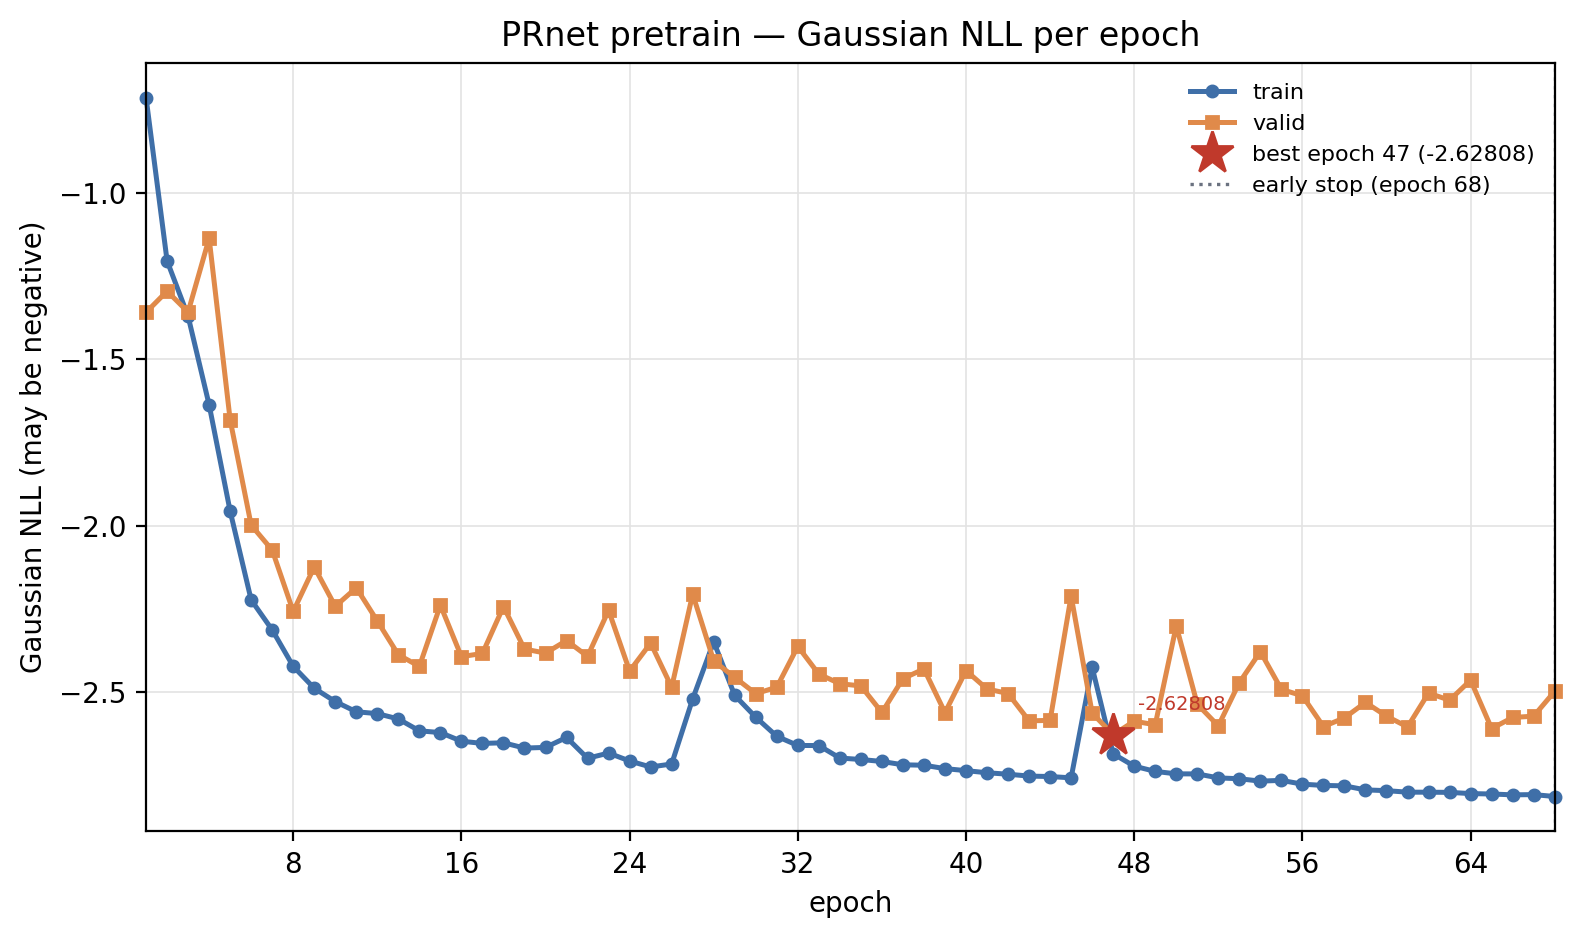
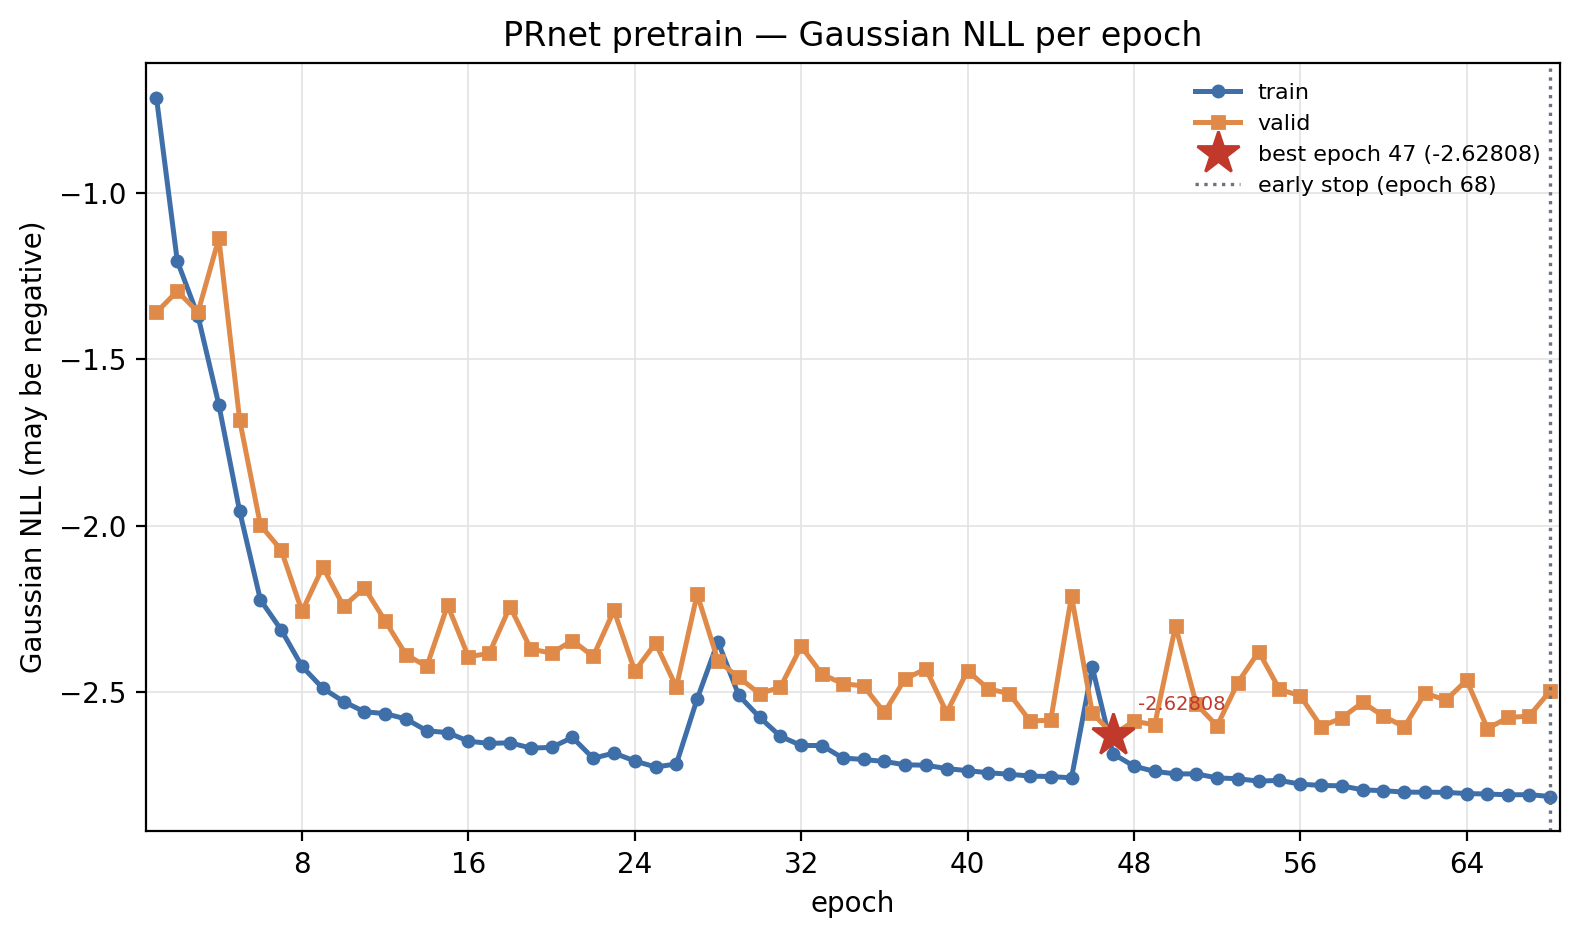
fix(stage2/05): honest wall time, control-space deviation, visible early-stop marker
Review follow-ups on the run record.

Wall time. The run's own start/finish stamps span 956 s (15.9 min), while the
in-process monotonic timer read 883.2 s for the same span: the host's monotonic
clock runs ~8% low (the per-epoch timers show the same bias against the log's
stamps). The record now reports the stamp span as the wall time and keeps the
monotonic value as a separate field; a rerun computes both. The tracked
fit_history.json and model_card.md are patched to the same semantics — same run,
same numbers, no retrain.

Control space. The model card claimed parity with the author's dataset ("control
and target rows share a space"); they do not — the control input is the
raw-count group mean while the target is log1p_cp10k. Recorded as a deviation in
the card, the README and ADR 0031, and flagged as needing resolution before any
finetune or transfer claim.

Early-stop marker. `set_xlim(1, max(epochs))` put the stop-epoch vline exactly on
the right spine whenever early stop fired at the last epoch, so the marker was
invisible. The axis is padded half an epoch, and a new `--replot` mode redraws
summary.png + summary_table.csv from the recorded fit_history.json using the
run's own plotting code (data unchanged; only the rendering is repeated).

README/AGENTS carry the corrected wall time, the `--replot` mode and the
control-space note; AGENTS is back within the 30-line routing limit.

diff --git a/stage2/05_prnet_pretrain/execution/train_prnet.py b/stage2/05_prnet_pretrain/execution/train_prnet.py
@@ -922,13 +922,11 @@ def write_summary_png(
     axis.set_title(title)
     axis.grid(True, color="#e3e3e3", lw=0.6)
     axis.legend(frameon=False, fontsize=8)
-    # Epoch is a discrete count: integer ticks only, and the axis spans exactly
-    # [1, epochs_run] so the curve fills the panel instead of floating inside it.
-    # A single-epoch history cannot use [1, 1] as a limit, so pad that one case.
-    if max(epochs) > 1:
-        axis.set_xlim(1, max(epochs))
-    else:
-        axis.set_xlim(0.5, 1.5)
+    # Epoch is a discrete count: integer ticks only. The axis is padded half an
+    # epoch past the last point so the early-stop line — which sits exactly on the
+    # final epoch whenever it fires — stays visible inside the panel instead of
+    # collapsing onto the right spine. A single-epoch history pads the same way.
+    axis.set_xlim(0.5, max(epochs) + 0.5)
     axis.xaxis.set_major_locator(MaxNLocator(integer=True))
     fig.tight_layout()
     fig.savefig(path, dpi=200, bbox_inches="tight", facecolor="white")
@@ -960,8 +958,11 @@ def write_model_card(
         f"- **Mode:** {'SMOKE (synthetic fixture, 2 epochs)' if args.smoke else 'full pretrain run'}",
         f"- **Started:** {config['started']}",
         f"- **Finished:** {timing['finished']}",
-        f"- **Wall time:** {timing['wall_time_s']:.1f} s end to end "
-        f"({timing['train_loop_s']:.1f} s inside the {result['epochs_run']} training epochs)",
+        f"- **Wall time:** {timing['wall_time_s']:.1f} s ({timing['wall_time_s'] / 60:.1f} min) "
+        f"between the start and finish stamps. The in-process monotonic timer reads "
+        f"{timing['wall_monotonic_s']:.1f} s for the same span — it runs low against the "
+        f"wall clock on this host — and {timing['train_loop_s']:.1f} s (monotonic) is inside "
+        f"the {result['epochs_run']} training epochs.",
         f"- **Peak memory:** {timing['peak_rss_mb']:.0f} MiB host RSS "
         f"(the view is read as CSR, never densified)",
         f"- **Command:** `{' '.join(config['command'])}`",
@@ -1052,8 +1053,11 @@ def write_model_card(
         "",
         "- Pipeline bring-up only: no CM finetune, no cold-drug evaluation, no comparison",
         "  against `03_models_cmbench`. A negative Gaussian NLL is expected and correct.",
-        "- The control input is the group mean of raw counts, **not** log1p_cp10k; this",
-        "  mirrors the author's dataset (control row and target row share the same space).",
+        "- **The control input and the target are not in the same space**: the control is",
+        "  the group mean of raw counts while the target is `log1p_cp10k`. The author's",
+        "  dataset draws both from one matrix, so this is a recorded deviation, not parity.",
+        "  It does not affect the pipeline claim, but it must be resolved before any",
+        "  finetune or transfer claim.",
         "",
     ]
     path.write_text("\n".join(lines), encoding="utf-8")
@@ -1082,6 +1086,9 @@ def parse_args(argv: list[str] | None = None) -> argparse.Namespace:
                              f"{SMOKE_TRAIN_ROWS}/{SMOKE_VALID_ROWS} sampled rows")
     parser.add_argument("--check", action="store_true",
                         help="print the resolved paths, view shape and split counts, then exit")
+    parser.add_argument("--replot", action="store_true",
+                        help="redraw summary.png/summary_table.csv from the recorded "
+                             "fit_history.json (no training, no model read)")
     return parser.parse_args(argv)
 
 
@@ -1112,9 +1119,31 @@ def main(argv: list[str] | None = None) -> int:
         )
 
     output.mkdir(parents=True, exist_ok=True)
-    setup_logging(None if args.check else output / "run.log")
+    setup_logging(None if (args.check or args.replot) else output / "run.log")
+    if args.replot:
+        # Redraw the figure from the recorded history; the data is the run's, only
+        # the rendering is repeated (used after a plotting fix, never to alter data).
+        history_path = output / "fit_history.json"
+        if not history_path.exists():
+            raise SystemExit(f"no recorded history to replot: {history_path}")
+        payload = json.loads(history_path.read_text(encoding="utf-8"))
+        run, history = payload["run"], payload["history"]
+        write_summary_table(output / "summary_table.csv", history)
+        write_summary_png(
+            output / "summary.png",
+            history,
+            int(run["best_epoch"]),
+            float(run["best_valid_loss"]),
+            bool(run["stopped_early"]),
+            int(run["stop_epoch"]),
+            bool(run["smoke"]),
+        )
+        log.info("redrew summary.png + summary_table.csv from %s (%d epochs)",
+                 history_path, len(history))
+        return 0
     started = time.strftime("%Y-%m-%dT%H:%M:%S%z")
     run_t0 = time.perf_counter()
+    run_t0_wall = time.time()
     command = [sys.executable, *sys.argv] if argv is None else ["train_prnet.py", *argv]
     log.info("PRnet pretrain bring-up — spec §2 (stage2/05_prnet_pretrain)")
     log.info("repo root %s", root)
@@ -1291,12 +1320,14 @@ def main(argv: list[str] | None = None) -> int:
     )
 
     finished = time.strftime("%Y-%m-%dT%H:%M:%S%z")
-    wall_time_s = time.perf_counter() - run_t0
+    wall_time_s = time.time() - run_t0_wall
+    wall_monotonic_s = time.perf_counter() - run_t0
     train_loop_s = sum(float(h["seconds"]) for h in result["history"])
     peak_rss = peak_rss_mb()
     timing = {
         "finished": finished,
         "wall_time_s": round(wall_time_s, 1),
+        "wall_monotonic_s": round(wall_monotonic_s, 1),
         "train_loop_s": round(train_loop_s, 1),
         "peak_rss_mb": round(peak_rss, 1),
     }
@@ -1315,8 +1346,12 @@ def main(argv: list[str] | None = None) -> int:
             "started": config["started"],
             "finished": finished,
             "wall_time_s": timing["wall_time_s"],
+            "wall_monotonic_s": timing["wall_monotonic_s"],
             "train_loop_s": timing["train_loop_s"],
             "peak_rss_mb": timing["peak_rss_mb"],
+            "wall_clock_note": "wall_time_s is derived from the run's own start/finish "
+                               "stamps; wall_monotonic_s is the in-process timer, which "
+                               "reads low against the wall clock on this host",
         },
         "history": result["history"],
     }

diff --git a/stage2/05_prnet_pretrain/README.md b/stage2/05_prnet_pretrain/README.md
@@ -21,7 +21,7 @@ recorded there (D0–D3, mirrored into `output/model_card.md`).
 | execution | **EXECUTED 2026-11-01** (fresh user go-ahead) — after 04's view passed QA 9/9 |
 | pretrain run | **68 epochs**, early stop fired at epoch 68 (patience 21 > 20 once the 20-epoch floor was met); best valid **−2.628080** at epoch 47; `NVIDIA GeForce RTX 4070 Ti SUPER` (torch 2.0.1+cu118) |
 | data | `stage2/04_tahoe_data/output/pretrain_view/tahoe_cm_schema.h5ad` — 67,018 × 18,164; 65,318 samples (**55,922 train / 9,396 valid**, split by plate: `plate13` + `plate14` valid); **300** treated rows dropped (no resolvable structure); 700 control groups; 375 unique SMILES; 1,400 controls / 65,618 treated |
-| cost | **883.2 s** wall end to end (14.7 min; 870.9 s in the loop, 12.8 s/epoch); peak host RSS **15,150 MiB** on a 31 GiB host |
+| cost | **956 s (15.9 min)** wall between the run's own start/finish stamps (`17:01:45`→`17:17:41`), over 68 epochs; the in-process monotonic timer reads 883.2 s for the same span — it runs low against the wall clock on this host (see `model_card.md`); peak host RSS **15,150 MiB** on a 31 GiB host |
 | loss | Gaussian NLL is **negative throughout** (train −0.714 → −2.814; best valid −2.628). It is a log-likelihood, so its sign carries no meaning; it is never clamped. It says nothing about transfer, and it is **not comparable** to any `03_models_cmbench` figure |
 | pipeline | **smoke-verified on CUDA** (2 epochs on a synthetic fixture, ticket 04) — retained as the pipeline proof |
 | fixture encoding | carries 04's production `dataframe/0.2.0` `uns['control_mean']` (generated with the `arc` env) |
@@ -32,12 +32,14 @@ The plan of record is
 The accepted decision record is
 [`docs/adr/0031-tahoe-cm-schema-view-and-prnet-pretrain.md`](../../docs/adr/0031-tahoe-cm-schema-view-and-prnet-pretrain.md).
 
-Real run (2026-11-01). `execution/run.sh` on 04's view: 68 epochs in 883 s, with early
+Real run (2026-11-01). `execution/run.sh` on 04's view: 68 epochs in 956 s (15.9 min
+between the start and finish stamps), with early
 stopping firing at epoch 68 after 21 stale epochs; the valid Gaussian NLL fell from
 −1.359030 at epoch 1 to a best **−2.628080** at epoch 47 and was still the best when the
 run stopped, and the plateau scheduler halved the learning rate to 5e-4 at epoch 58. The
 curve (`output/summary.png`) is drawn by the run itself: integer epoch axis, train +
-valid series, best-epoch star at 47, early-stop line at 68. `output/model_card.md`
+valid series, best-epoch star at 47, early-stop dotted line at 68 (drawn inside the
+panel). `output/model_card.md`
 records the recipe, the four deviations, the row counts, the device, the wall time and
 the peak memory. This is a pretraining **pipeline** result: no finetune, no cold-drug
 evaluation, no claim that pretraining helps, and no comparison with `03_models_cmbench`.
@@ -71,6 +73,9 @@ stage2/05_prnet_pretrain/execution/run.sh
 $ARC stage2/05_prnet_pretrain/execution/_smoke/make_fixture.py
 $PY stage2/05_prnet_pretrain/execution/train_prnet.py --smoke \
     --view stage2/05_prnet_pretrain/execution/_smoke/tahoe_cm_schema_smoke.h5ad
+
+# 3. redraw the curve from the recorded history (no training, no view read)
+$PY stage2/05_prnet_pretrain/execution/train_prnet.py --replot
 ```
 
 `--view` / `--output` / `--device` / `--seed` are overridable; defaults are the 04
@@ -163,8 +168,11 @@ Inherited from the 04 view and recorded in `model_card.md`:
 
 Two further notes for this step:
 
-- The control input is the group **mean of raw counts**, not `log1p_cp10k`; this
-  mirrors the author's dataset, where control and target rows share a space.
+- **The control input and the target are not in the same space** — the control is
+  the group **mean of raw counts** while the target is `log1p_cp10k`. The author's
+  dataset draws both from one matrix, so this is a recorded deviation from parity,
+  not a match with it. It does not affect the pipeline claim, but it must be
+  resolved before any finetune or transfer claim.
 - `uns['control_mean']` is 04's production DataFrame encoding (`dataframe/0.2.0`,
   written by anndata 0.12.16 in the `arc` env). The pinned 0.10.8 reader here
   handles it and materialises a `(700, 18164)` `DataFrame`; `config.json` records

diff --git a/stage2/05_prnet_pretrain/AGENTS.md b/stage2/05_prnet_pretrain/AGENTS.md
@@ -3,29 +3,28 @@
 Routing index. The human record is `README.md`; the accepted decision record is
 `docs/adr/0031-tahoe-cm-schema-view-and-prnet-pretrain.md` (executed 2026-11-01:
 68 epochs, best valid Gaussian NLL −2.628080; contract planned in
-`.scratch/stage2-05-prnet-pretrain/spec.md` §2). This step **trains only**; it
-consumes 04's view and rebuilds no data. Never import `pert_model/` or
-`03_models_cmbench/` — both are replicated in-file on purpose.
+`.scratch/stage2-05-prnet-pretrain/spec.md` §2). Trains only; consumes 04's view,
+rebuilds no data. Never import `pert_model/` or `03_models_cmbench/` — both are
+replicated in-file on purpose.
 
 - `execution/train_prnet.py` — the only entry point. `--check` = paths/shape/split
-  then exit; `--smoke` = 2 epochs; default = full run. Reads only `--view`,
-  writes only `--output`; the repo root is found by walking up to `.git`.
+  then exit; `--smoke` = 2 epochs; `--replot` = redraw from `fit_history.json`;
+  default = full run. Reads `--view`, writes `--output`; root by walking to `.git`.
 - `execution/run.sh` — one-command reproduction (`PY=` overrides the interpreter).
 - `execution/_smoke/make_fixture.py` — a 300 x 18,164 synthetic view with the
-  §1.2–1.4 schema, for proving the pipeline before 04's view exists. Generate it
-  with the `arc` env (anndata 0.12) so `uns['control_mean']` carries 04's
-  `dataframe/0.2.0` encoding; the pinned 0.10.8 reader handles it. Test aid, not
-  a deliverable (`*.h5ad` is gitignored).
-- `output/` — reruns overwrite; five human-facing artifacts force-added:
-  `config.json`, `fit_history.json`, `summary_table.csv`, `summary.png`,
-  `model_card.md`; `run.log` and `checkpoint/model.pt` stay local (ticket 05).
+  §1.2–1.4 schema, generated with the `arc` env so `uns['control_mean']` carries
+  04's `dataframe/0.2.0` encoding; the pinned 0.10.8 reader handles it. Test aid,
+  not a deliverable (`*.h5ad` is gitignored).
+- `output/` — reruns overwrite; five human-facing artifacts force-added
+  (`config.json`, `fit_history.json`, `summary_table.csv`, `summary.png`,
+  `model_card.md`); `run.log` and `checkpoint/model.pt` stay local (ticket 05).
 - Input: `stage2/04_tahoe_data/output/pretrain_view/tahoe_cm_schema.h5ad` —
   67,018 x 18,164, CSR `X` int32 + CSR `layers['log1p_cp10k']`, obs per §1.3,
-  `uns['control_mean']` per §1.4; batch = (control mean, rFCFP4 x log10 dose,
-  log1p_cp10k row).
+  `uns['control_mean']` per §1.4.
 - Recipe is a **same-source copy** of `pert_model/PRnet/source/{models/PRnet.py,
   trainer/PRnetTrainer.py,data/_utils.py}` and the 03.1 adapter loop — do not
-  diverge; the recipe stays identical, the reported losses are not commensurable.
-  Loss is Gaussian NLL, **may be negative**, never clamped/`abs()`-ed/"fixed".
+  diverge. Loss is Gaussian NLL, **may be negative**, never clamped/"fixed".
+- Control input is the raw-count group mean, the target `log1p_cp10k` — **not** the
+  author's same-matrix parity; a recorded deviation, resolve before any finetune.
 
-Reproduce commands: `README.md` (`--check`, `--smoke`, full run).
+Reproduce commands: `README.md` (`--check`, `--smoke`, `--replot`, full run).

diff --git a/stage2/05_prnet_pretrain/output/model_card.md b/stage2/05_prnet_pretrain/output/model_card.md
@@ -5,7 +5,7 @@ Auto-generated by `stage2/05_prnet_pretrain/execution/train_prnet.py` (spec: `.s
 - **Mode:** full pretrain run
 - **Started:** 2026-11-01T17:01:45+0800
 - **Finished:** 2026-11-01T17:17:41+0800
-- **Wall time:** 883.2 s end to end (870.9 s inside the 68 training epochs)
+- **Wall time:** 956.0 s (15.9 min) between the start and finish stamps. The in-process monotonic timer reads 883.2 s for the same span — it runs low against the wall clock on this host — and 870.9 s (monotonic) is inside the 68 training epochs.
 - **Peak memory:** 15150 MiB host RSS (the view is read as CSR, never densified)
 - **Command:** `/home/chang/miniconda3/envs/arc-stage2-bench-prnet/bin/python stage2/05_prnet_pretrain/execution/train_prnet.py`
 - **Device:** `cuda` — NVIDIA GeForce RTX 4070 Ti SUPER
@@ -83,5 +83,8 @@ Artifacts (all in `output/`, overwritten on every rerun): `run.log`,
 
 - Pipeline bring-up only: no CM finetune, no cold-drug evaluation, no comparison
   against `03_models_cmbench`. A negative Gaussian NLL is expected and correct.
-- The control input is the group mean of raw counts, **not** log1p_cp10k; this
-  mirrors the author's dataset (control row and target row share the same space).
+- **The control input and the target are not in the same space**: the control is
+  the group mean of raw counts while the target is `log1p_cp10k`. The author's
+  dataset draws both from one matrix, so this is a recorded deviation, not parity.
+  It does not affect the pipeline claim, but it must be resolved before any
+  finetune or transfer claim.
